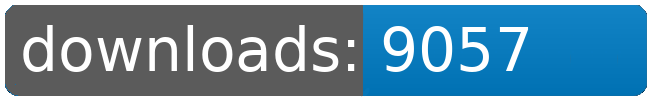
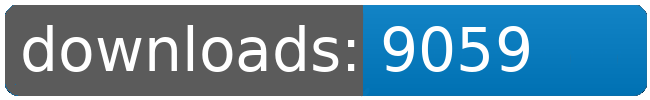
dl log written

Changed region(s): [[0.7692, 0.24, 0.8308, 0.72]]

diff --git a/README.md b/README.md
@@ -98,8 +98,8 @@
 		<td>9045</td>
 		<td>9051</td>
 		<td>9054</td>
-		<td>9057</td>
-		<td>+ 3</td>
+		<td>9059</td>
+		<td>+ 5</td>
 	</tr>
 	<tr>
 		<td>Sheragi.Rebirth.Redux</td>
@@ -153,8 +153,8 @@
 		<td></td>
 		<td></td>
 		<td></td>
-		<td>68984</td>
-		<td>27</td>
+		<td>68986</td>
+		<td>29</td>
 	</tr>
 </table>
 </sub></sup>
@@ -201,8 +201,8 @@
 		<td>9045</td>
 		<td>9051</td>
 		<td>9054</td>
-		<td>9057</td>
-		<td>+ 3</td>
+		<td>9059</td>
+		<td>+ 5</td>
 	</tr>
 	<tr>
 		<td>Korunak.Defense.Drones</td>
@@ -311,8 +311,8 @@
 		<td></td>
 		<td></td>
 		<td></td>
-		<td>68984</td>
-		<td>27</td>
+		<td>68986</td>
+		<td>29</td>
 	</tr>
 </table>
 </sub></sup>
